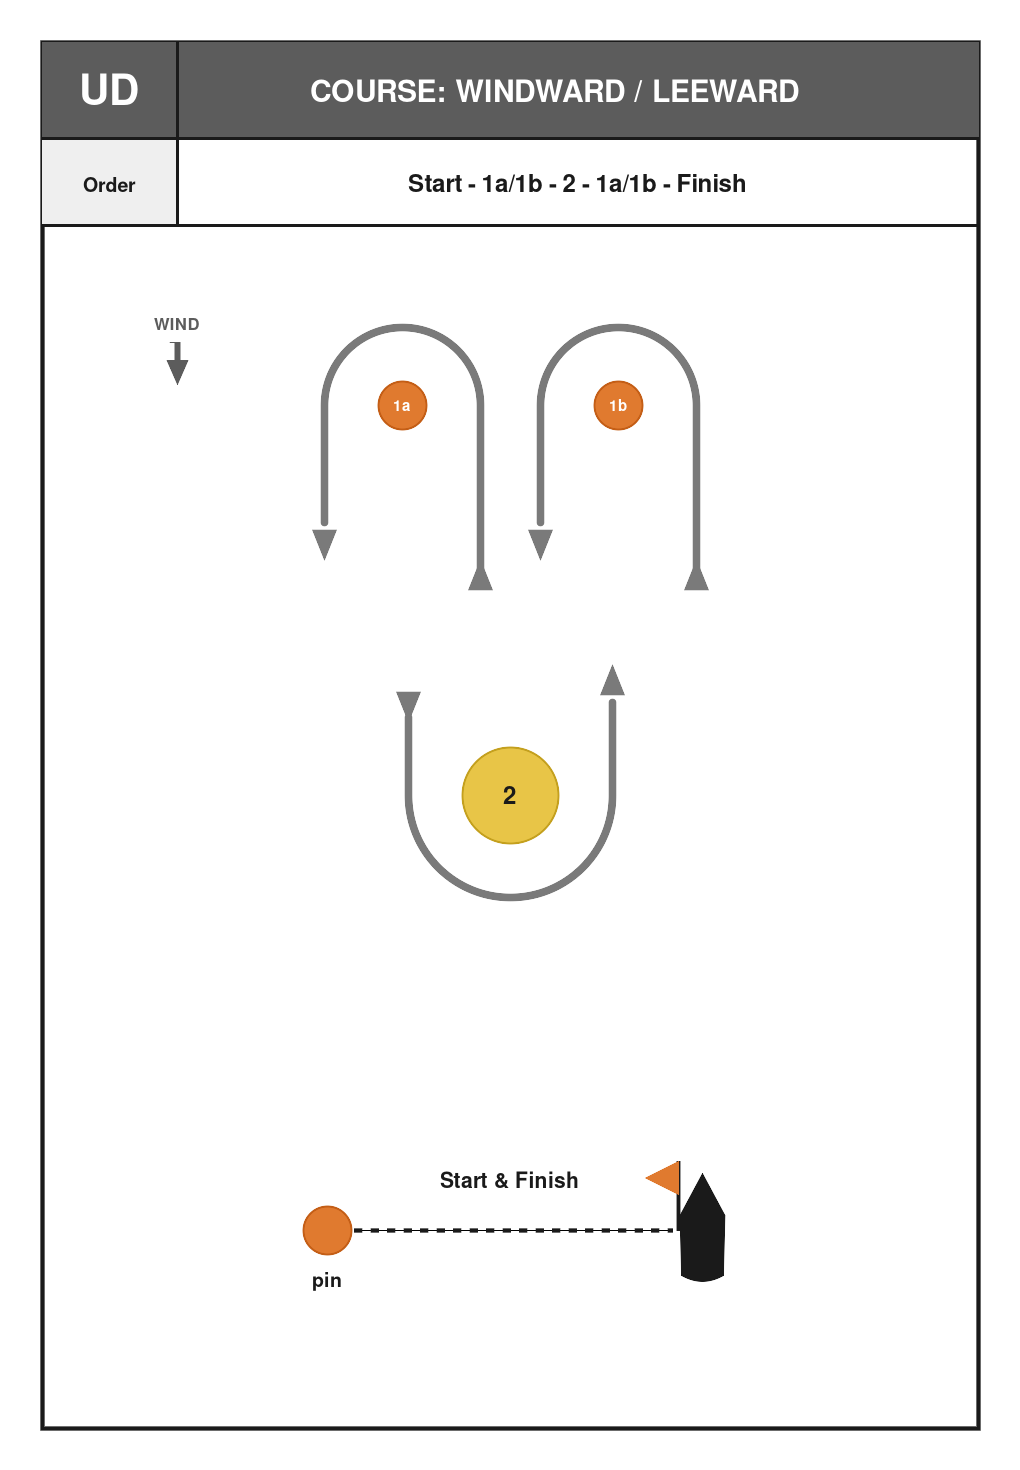
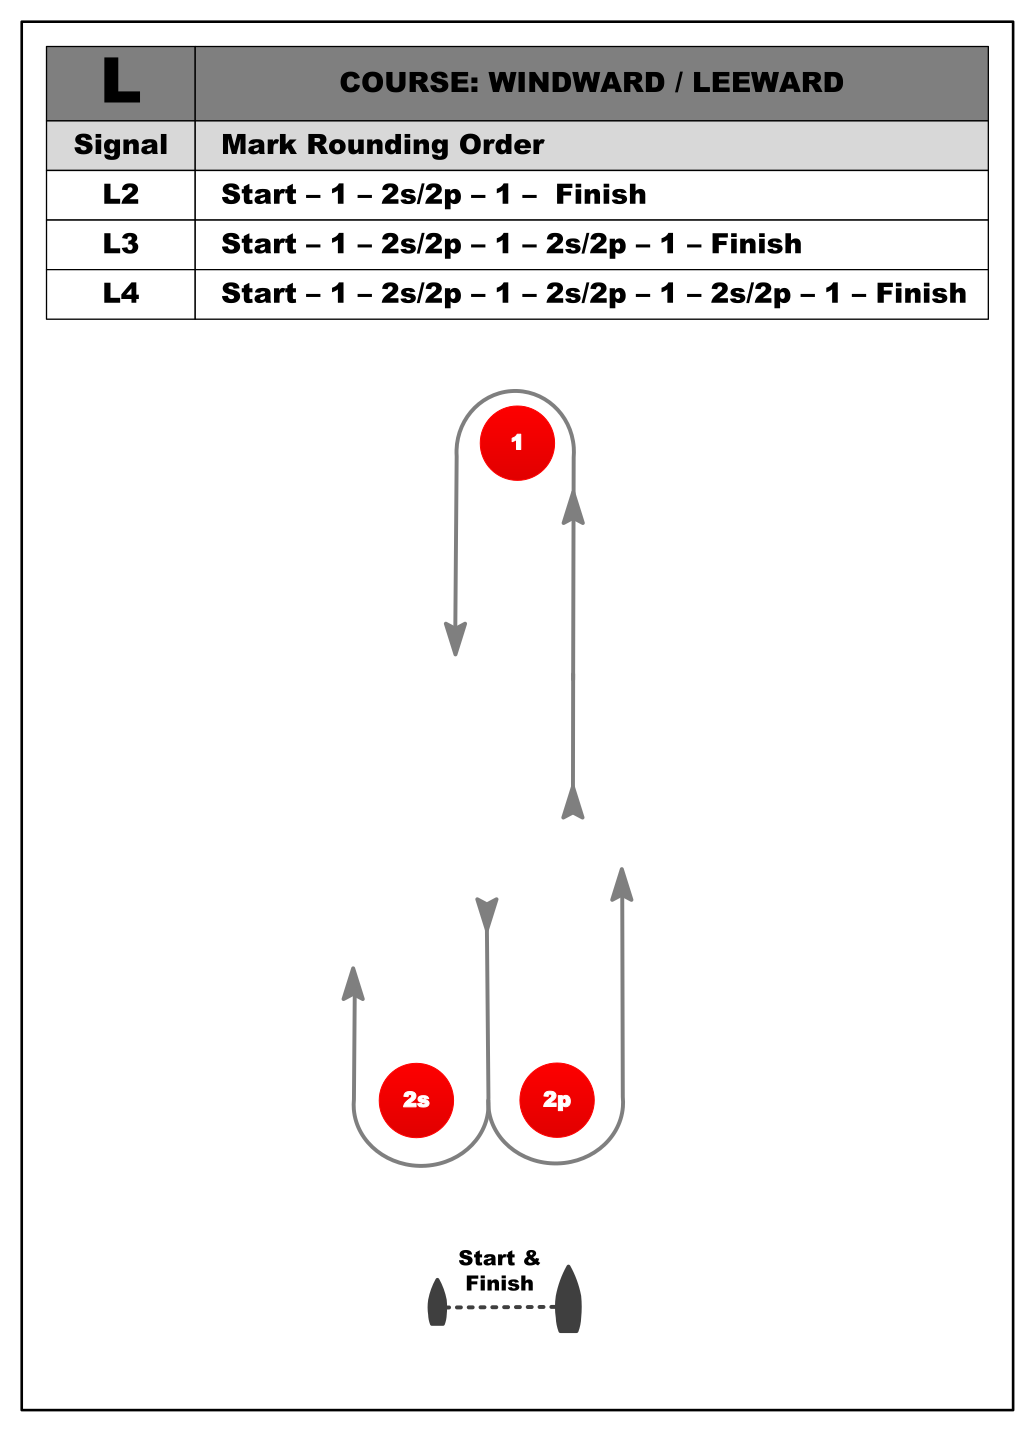
Publish the RYA L-course, Papa start, and one-turn penalty.

diff --git a/index.html b/index.html
@@ -138,7 +138,7 @@
 <section id="si" class="board-section" aria-label="Sailing instructions">
   
   <article class="notice">
-  <header class="notice-head"><p class="notice-title">Segelanweisungen</p><p>DHH Vereinsregatta - Achim Thieke Preis</p><p>Hanseatische Yachtschule Glücksburg</p><p>Flensburger Förde</p><p>Samstag, 26. September 2026</p></header><hr class="notice-rule"><p>Diese Segelanweisung gilt für die DHH Vereinsregatta an der Hanseatischen Yachtschule Glücksburg am Samstag, dem 26. September 2026.</p><h2>Regeln</h2><ol class="notice-list"><li>Die Regatta wird nach den Racing Rules of Sailing 2025–2028 (RRS) von World Sailing gesegelt.</li><li>Diese Segelanweisung und etwaige Änderungen werden am betreffenden Tag vor 08:45 in der Bootshalle ausgehängt.</li><li>Die genannten Startzeiten sind grobe Richtwerte und werden auf dem Wasser der Situation angepasst.</li></ol><h2>Boote und Ausrüstung</h2><ol class="notice-list"><li>Die Boote werden den Crews per Zufallsverfahren zugeteilt.</li><li>Es gilt für jedes Boot die Hörbereitschaft auf Kanal 2.</li><li>Die Boote dürfen nicht verändert werden. Es darf nur die bereits an Bord befindliche Ausrüstung verwendet werden. Die Ausrüstung muss an Bord verbleiben.</li></ol><h2>Zeitplan</h2><table class="notice-times"><tbody><tr><th>09:00</th><td>Skippers briefing</td></tr><tr><th>10:00</th><td>Probestart</td></tr><tr><th>10:15</th><td>1. Warnsignal up- and down Kurs. Folgende Wettfahrten starten sobald möglich.</td></tr><tr><th>14:20</th><td>Warnsignal Mittelstrecke</td></tr></tbody></table><h2>Signale</h2><ol class="notice-list"><li>Flagge AP (Antwortwimpel): Noch nicht gestartete Wettfahrten sind verschoben. Das Warnsignal erfolgt 1 Minute nach dem Niederholen, sofern die Wettfahrt nicht erneut verschoben oder abgebrochen wird.</li><li>Klassenzeichen („F“) bzw. („HKB“) auf weißem Grund.</li><li>Flagge I (India): Wird sie als Vorbereitungssignal gezeigt und befindet sich in der Minute vor dem Startsignal irgendein Teil des Rumpfes eines Bootes auf der Kursseite der Startlinie oder ihrer Verlängerungen, so muss das Boot vor dem Start um eines der Enden der Startlinie herum auf die Prestartseite zurückkehren. Ansonsten wird das Boot ohne Anhörung als DNS (Did Not Start) gewertet, gemäß RRS 30.1 (Around-the-Ends-Regel).</li><li>Flagge X: Einzelrückruf gemäß RRS 29.1. Die Flagge wird mit einem Schallsignal gezeigt, wenn sich beim Startsignal irgendein Teil des Rumpfes eines Bootes auf der Kursseite der Startlinie befindet.</li><li>1. Hilfsstander: Generalrückruf gemäß RRS 29.2. Das Warnsignal für den neuen Start erfolgt 1 Minute nach dem Niederholen.</li><li>Flagge S: Die Wettfahrtleitung kann den Kurs nach dem Startsignal verkürzen, indem sie Flagge S mit zwei Schallsignalen zeigt; die Ziellinie liegt dann zwischen den angegebenen Marken, gemäß RRS 32.2.</li><li>Flagge N: Alle laufenden Wettfahrten sind abgebrochen. Die Boote kehren ins Startgebiet zurück. Das Warnsignal erfolgt 1 Minute nach dem Niederholen, sofern die Wettfahrt nicht erneut abgebrochen oder verschoben wird.</li><li>Flagge N über H: Alle laufenden Wettfahrten sind abgebrochen. Weitere Signale an Land.</li></ol><h2>Start der Wettfahrten</h2><p>Die Wettfahrten werden nach RRS 26 gestartet.</p><table class="notice-times"><tbody><tr><th>5 Minuten</th><td>Warnsignal (Klassenflaggen F und HKB gehisst, 1 Schallsignal).</td></tr><tr><th>4 Minuten</th><td>Vorbereitungssignal (Vorbereitungsflagge India gehisst, 1 Schallsignal).</td></tr><tr><th>1 Minute</th><td>Vorbereitungssignal (Vorbereitungsflagge India niedergeholt, <strong>1 langes Schallsignal</strong>).</td></tr><tr><th>0 Minuten</th><td>Startsignal (Klassenflagge niedergeholt, 1 Schallsignal).</td></tr></tbody></table><h2>Wettfahrtgebiet und Kurse</h2><ol class="notice-list"><li>Das Wettfahrtgebiet liegt auf der Flensburger Förde vor dem Hafen der Hanseatischen Yachtschule Glücksburg.</li><li>Up- and down: Startlinie, Marke 1a oder 1b (Backbord lassen), Marke 2, Marke 1a oder 1b (Backbord lassen), Ziellinie. Start- und Ziellinie sind dieselbe Linie zwischen pin end und oranger Flagge am Startschiff.</li></ol><figure class="course-fig"><img src="static/course-up-and-down.svg" alt="Up- and down. Start – 1a/1b – 2 – 1a/1b – Finish. Crewsaver: 1a, 1b and pin. Minion: 2. Leave either 1a or 1b to port."><figcaption>Up- and down. Start – 1a/1b – 2 – 1a/1b – Finish. Crewsaver: 1a, 1b and pin. Minion: 2. Leave either 1a or 1b to port.</figcaption></figure><h2>Bahnmarken sowie Start- und Ziellinie</h2><table class="notice-times"><tbody><tr><th>Bahnmarken</th><td>Alle Rundenmarken sind orange oder gelbe Zylinderbojen (Crewsaver, Minions), sofern nicht anders bekannt gegeben.</td></tr><tr><th>Start- und Ziel</th><td>Die Start- und Ziellinie befindet sich zwischen der orangen Flagge am Startschiff und dem pin end (Crewsaver).</td></tr></tbody></table><h2>Zeitlimits</h2><ol class="notice-list"><li>Das Zeitlimit für das erste Boot, das den Kurs segelt und das Ziel erreicht, beträgt 40 Minuten (up- and downs) bzw. 120 Minuten (Mittelstrecke).</li><li>Boote, die nicht innerhalb von 20 Minuten (up- and down) bzw. 35 Minuten (Mittelstrecke) nach dem Ziel des ersten Bootes das Ziel erreichen, werden ohne Anhörung als DNF (Did Not Finish) gewertet.</li></ol><h2>Proteste und Strafen</h2><ol class="notice-list"><li>Die Jury entscheidet auf dem Wasser. Ein Protest zu einem Vorfall im Wettfahrtgebiet ist nur während der betreffenden Wettfahrt zulässig; nach dem Ziel sind keine Proteste und keine Anträge auf Wiedergutmachung mehr zulässig. Ein schriftlicher Protest ist nicht erforderlich. Die Jury kann eine Strafe ohne Anhörung verhängen. Dies ändert RRS 60.3, 60.5, 61.2 und 63.</li><li>Ein Boot, das protestieren will, soll möglichst sofort „Protest“ rufen und die Jury unverzüglich auf dem Wasser informieren. Eine rote Protestflagge ist nicht erforderlich. Dies ändert RRS 60.2(a)(1).</li><li>Es gilt die Zwei-Drehungen-Strafe gemäß RRS 44.2.</li></ol><h2>Wertung</h2><ol class="notice-list"><li>Die Wertung erfolgt nach bereinigter Zeit mit den aktuellen Yardstick-Werten der HYS.</li><li>Es sind vier Wettfahrten geplant; mindestens eine gewertete Wettfahrt ist für eine Gesamtwertung erforderlich.</li></ol><hr class="notice-rule"><p class="notice-foot">Details zu Kursen, Bahnmarken und Starts gibt es in der Bootshalle und beim Skippers briefing. Die Startzeiten sind grobe Richtwerte und werden auf dem Wasser der Situation entsprechend angepasst.</p>
+  <header class="notice-head"><p class="notice-title">Segelanweisungen</p><p>DHH Vereinsregatta - Achim Thieke Preis</p><p>Hanseatische Yachtschule Glücksburg</p><p>Flensburger Förde</p><p>Samstag, 26. September 2026</p></header><hr class="notice-rule"><p>Diese Segelanweisung gilt für die DHH Vereinsregatta an der Hanseatischen Yachtschule Glücksburg am Samstag, dem 26. September 2026.</p><h2>Regeln</h2><ol class="notice-list"><li>Die Regatta wird nach den Racing Rules of Sailing 2025–2028 (RRS) von World Sailing gesegelt.</li><li>Diese Segelanweisung und etwaige Änderungen werden am betreffenden Tag vor 08:45 in der Bootshalle ausgehängt.</li><li>Die genannten Startzeiten sind grobe Richtwerte und werden auf dem Wasser der Situation angepasst.</li></ol><h2>Boote und Ausrüstung</h2><ol class="notice-list"><li>Die Boote werden den Crews per Zufallsverfahren zugeteilt.</li><li>Es gilt für jedes Boot die Hörbereitschaft auf Kanal 2.</li><li>Die Boote dürfen nicht verändert werden. Es darf nur die bereits an Bord befindliche Ausrüstung verwendet werden. Die Ausrüstung muss an Bord verbleiben.</li></ol><h2>Zeitplan</h2><table class="notice-times"><tbody><tr><th>09:00</th><td>Skippers briefing</td></tr><tr><th>10:00</th><td>Probestart</td></tr><tr><th>10:15</th><td>1. Warnsignal up- and down Kurs. Folgende Wettfahrten starten sobald möglich.</td></tr><tr><th>14:20</th><td>Warnsignal Mittelstrecke</td></tr></tbody></table><h2>Signale</h2><ol class="notice-list"><li>Flagge AP (Antwortwimpel): Noch nicht gestartete Wettfahrten sind verschoben. Das Warnsignal erfolgt 1 Minute nach dem Niederholen, sofern die Wettfahrt nicht erneut verschoben oder abgebrochen wird.</li><li>Klassenzeichen („F“) bzw. („HKB“) auf weißem Grund.</li><li>Flagge P (Papa): Vorbereitungssignal gemäß RRS 26. Boote, die sich auf der Kursseite der Startlinie befinden, dürfen durch Zurückqueren der Linie (Eintauchen) auf die Prestartseite zurückkehren.</li><li>Flagge X: Einzelrückruf gemäß RRS 29.1. Die Flagge wird mit einem Schallsignal gezeigt, wenn sich beim Startsignal irgendein Teil des Rumpfes eines Bootes auf der Kursseite der Startlinie befindet.</li><li>1. Hilfsstander: Generalrückruf gemäß RRS 29.2. Das Warnsignal für den neuen Start erfolgt 1 Minute nach dem Niederholen.</li><li>Flagge S: Die Wettfahrtleitung kann den Kurs nach dem Startsignal verkürzen, indem sie Flagge S mit zwei Schallsignalen zeigt; die Ziellinie liegt dann zwischen den angegebenen Marken, gemäß RRS 32.2.</li><li>Flagge N: Alle laufenden Wettfahrten sind abgebrochen. Die Boote kehren ins Startgebiet zurück. Das Warnsignal erfolgt 1 Minute nach dem Niederholen, sofern die Wettfahrt nicht erneut abgebrochen oder verschoben wird.</li><li>Flagge N über H: Alle laufenden Wettfahrten sind abgebrochen. Weitere Signale an Land.</li></ol><h2>Start der Wettfahrten</h2><p>Die Wettfahrten werden nach RRS 26 gestartet.</p><table class="notice-times"><tbody><tr><th>5 Minuten</th><td>Warnsignal (Klassenflaggen F und HKB gehisst, 1 Schallsignal).</td></tr><tr><th>4 Minuten</th><td>Vorbereitungssignal (Vorbereitungsflagge Papa gehisst, 1 Schallsignal).</td></tr><tr><th>1 Minute</th><td>Vorbereitungssignal (Vorbereitungsflagge Papa niedergeholt, <strong>1 langes Schallsignal</strong>).</td></tr><tr><th>0 Minuten</th><td>Startsignal (Klassenflagge niedergeholt, 1 Schallsignal).</td></tr></tbody></table><h2>Wettfahrtgebiet und Kurse</h2><ol class="notice-list"><li>Das Wettfahrtgebiet liegt auf der Flensburger Förde vor dem Hafen der Hanseatischen Yachtschule Glücksburg.</li><li>Up- and down (L-Kurs): Startlinie, Marke 1 (Backbord lassen), 2s/2p, Marke 1, Ziellinie. Die Signaltafel L2, L3 oder L4 gibt die Rundenzahl an. Start- und Ziellinie sind dieselbe Linie zwischen pin end und oranger Flagge am Startschiff.</li></ol><figure class="course-fig"><img src="static/course-up-and-down.png" alt="L course with mark 2. Leave 1 to port. Leave 2p to port or 2s to starboard."><figcaption>L course with mark 2. Leave 1 to port. Leave 2p to port or 2s to starboard.</figcaption></figure><h2>Bahnmarken sowie Start- und Ziellinie</h2><table class="notice-times"><tbody><tr><th>Bahnmarken</th><td>Alle Rundenmarken sind orange oder gelbe Zylinderbojen (Crewsaver, Minions), sofern nicht anders bekannt gegeben.</td></tr><tr><th>Start- und Ziel</th><td>Die Start- und Ziellinie befindet sich zwischen der orangen Flagge am Startschiff und dem pin end (Crewsaver).</td></tr></tbody></table><h2>Zeitlimits</h2><ol class="notice-list"><li>Das Zeitlimit für das erste Boot, das den Kurs segelt und das Ziel erreicht, beträgt 40 Minuten (up- and downs) bzw. 120 Minuten (Mittelstrecke).</li><li>Boote, die nicht innerhalb von 20 Minuten (up- and down) bzw. 35 Minuten (Mittelstrecke) nach dem Ziel des ersten Bootes das Ziel erreichen, werden ohne Anhörung als DNF (Did Not Finish) gewertet.</li></ol><h2>Proteste und Strafen</h2><ol class="notice-list"><li>Die Jury entscheidet auf dem Wasser. Ein Protest zu einem Vorfall im Wettfahrtgebiet ist nur während der betreffenden Wettfahrt zulässig; nach dem Ziel sind keine Proteste und keine Anträge auf Wiedergutmachung mehr zulässig. Ein schriftlicher Protest ist nicht erforderlich. Die Jury kann eine Strafe ohne Anhörung verhängen. Dies ändert RRS 60.3, 60.5, 61.2 und 63.</li><li>Ein Boot, das protestieren will, soll möglichst sofort „Protest“ rufen und die Jury unverzüglich auf dem Wasser informieren. Eine rote Protestflagge ist nicht erforderlich. Dies ändert RRS 60.2(a)(1).</li><li>Es gilt die Eine-Drehung-Strafe. Dies ändert RRS 44.1.</li></ol><h2>Wertung</h2><ol class="notice-list"><li>Die Wertung erfolgt nach bereinigter Zeit mit den aktuellen Yardstick-Werten der HYS.</li><li>Es sind vier Wettfahrten geplant; mindestens eine gewertete Wettfahrt ist für eine Gesamtwertung erforderlich.</li></ol><hr class="notice-rule"><p class="notice-foot">Details zu Kursen, Bahnmarken und Starts gibt es in der Bootshalle und beim Skippers briefing. Die Startzeiten sind grobe Richtwerte und werden auf dem Wasser der Situation entsprechend angepasst.</p>
   </article>
   
 </section>

diff --git a/static/app.css b/static/app.css
@@ -518,6 +518,28 @@ button:hover, .btn:hover { background: var(--navy-2); }
   background: #fff;
 }
 
+.course-figs {
+  display: grid;
+  grid-template-columns: 1fr;
+  gap: 1rem 1.2rem;
+  margin: 1rem 0 1.3rem;
+}
+
+.course-figs .course-fig {
+  margin: 0;
+}
+
+.course-figs .course-fig img {
+  width: 100%;
+}
+
+@media (min-width: 48rem) {
+  .course-figs {
+    grid-template-columns: 1fr 1fr;
+    align-items: start;
+  }
+}
+
 .course-fig figcaption {
   color: var(--muted);
   font-size: 0.88rem;
